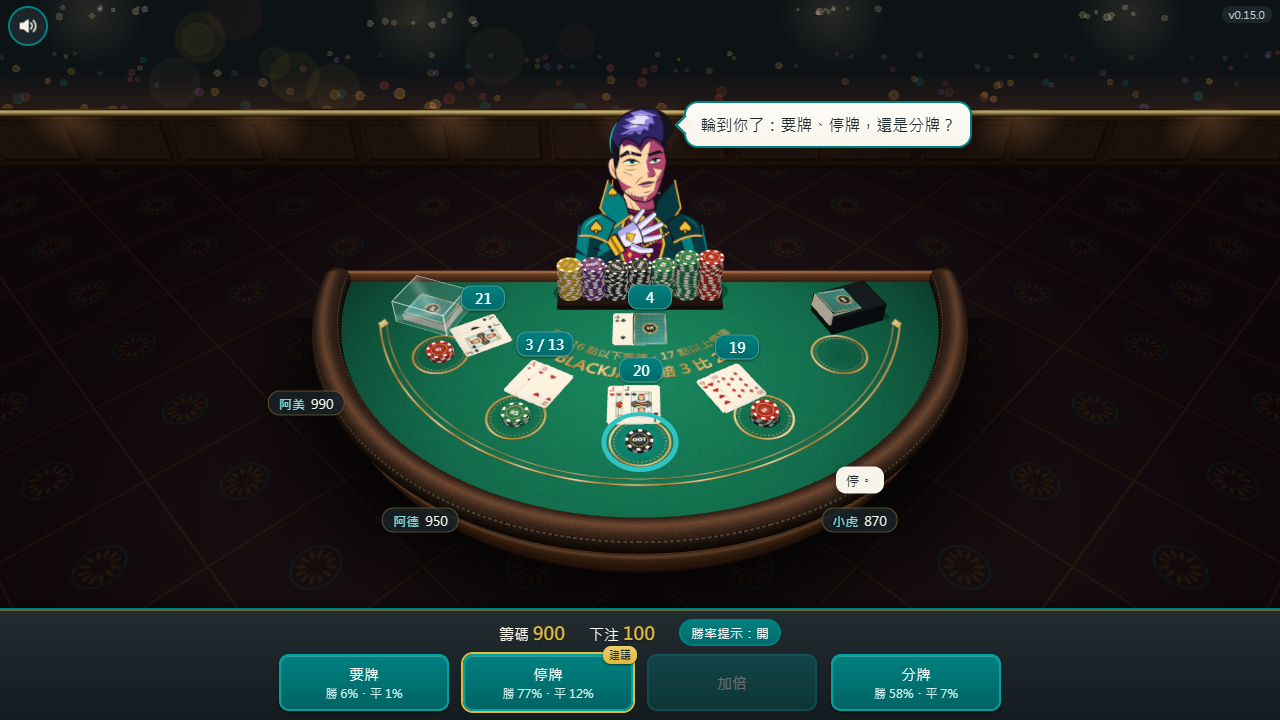
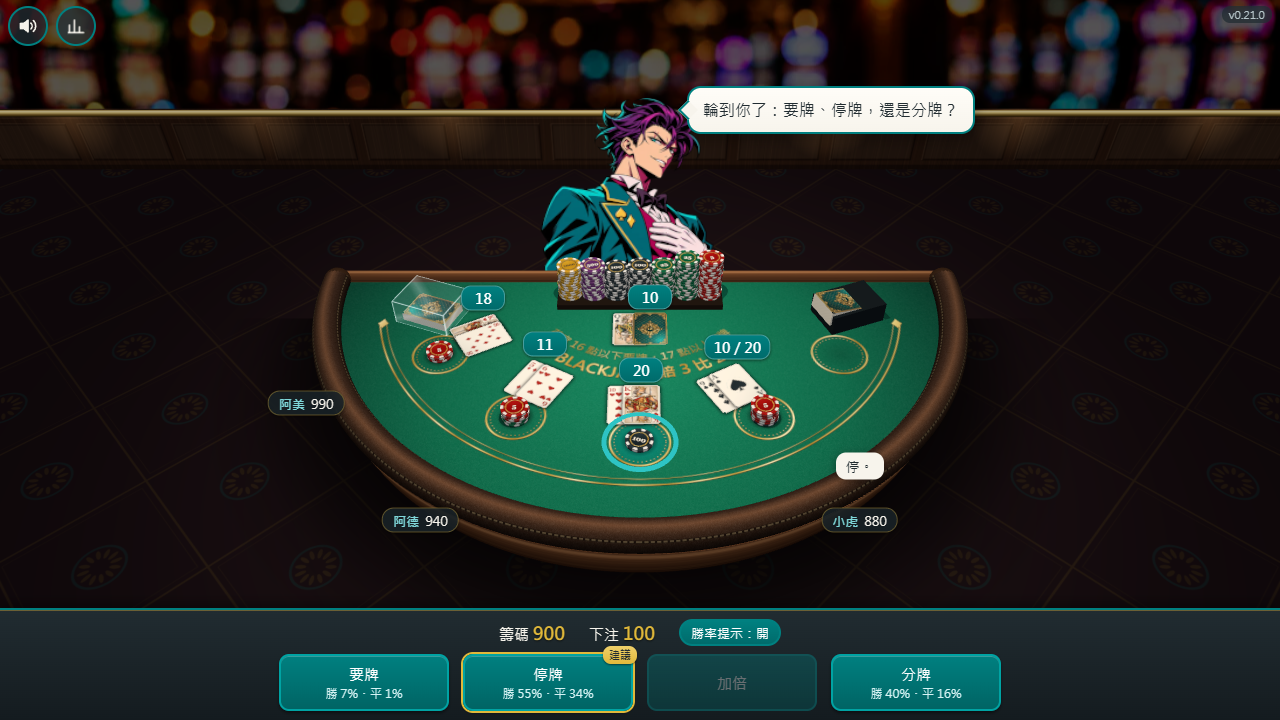
v0.21.0 橫式畫面的插畫荷官放大 1.2 倍、裁掉下半身
使用者 2026-11-16 追加：桌機上插畫荷官的臉太小（頭頂到下巴 66 像素）。
- dealer.js 重建立牌幾何：寬乘 zoom、高與頂端不動，貼圖只取上面 1/zoom；
  不用 mesh.scale，框景（牌桌加荷官的外框）與鏡頭位置不變。local() 跟著 zoom 換算
- zoom 依造型給（插畫 1.2、舊版 1：舊版頭在立牌偏下，放大後肩膀沉到籌碼架後面），換造型時重建；
  main.js 排版時只告訴荷官畫面是不是橫的，直式手機不變
- 桌機待機頭頂到下巴 66 → 80 像素
- check_dealer.js 加 1 條與 2 個陽性對照（沒放大、整個立牌放大讓鏡頭換位置）
- README 牌桌截圖換成這一版；路線圖與版本紀錄同步

diff --git a/tests/check_dealer.js b/tests/check_dealer.js
@@ -1,6 +1,6 @@
 // 守荷官：預設造型的點陣插畫每種表情立牌貼的是自己那張、臉框量在臉上（產出檔本身由 check_dealer_art.js 守）；
 // 對白泡泡在桌機與直式手機都要整個在畫面內、不蓋住荷官的臉、而且貼在臉旁邊，講到一半換表情也一樣；
-// 舊版造型五種表情都只有兩隻手（BJK-01）；點荷官換造型；大特寫跟著造型。
+// 舊版造型五種表情都只有兩隻手（BJK-01）；點荷官換造型；大特寫跟著造型；橫式畫面插畫荷官放大 1.2 倍而框景不變。
 // 驗不到：插畫好不好看、裁得好不好（看 node tools/shoot.js <前綴> --dealer 與 tools/_shots/art-<表情>-marks.png）。
 const test = require('node:test');
 const assert = require('node:assert');
@@ -234,6 +234,62 @@ function assertClassicArms(arms) {
     assert.strictEqual(a.right, mood === 'deal' ? 0 : 255, mood === 'deal' ? `發牌時右袖還垂著，多一隻手：${why}` : `${mood}：右袖不見了：${why}`);
   }
 }
+
+// ---- 橫式畫面放大插畫荷官（v0.21.0，使用者 2026-11-16 要 1.2 倍、裁掉下半身）----
+// 臉框在畫面上的高度，跟同一頁關掉放大（setLandscape(false)）時比；鏡頭位置跟「插畫不放大」的複本比，框景不准因此變
+const ZOOM = `(async () => {
+  const s = BJK.view.stage, d = s.dealer; await d.ready;
+  const h = () => { const f = d.faceRect(); return f.bottom - f.top; };
+  const zoomed = h();
+  d.setLandscape(false);
+  const plain = h();
+  return { ratio: +(zoomed / plain).toFixed(3), face: Math.round(zoomed), cam: s.camera.position.toArray() };
+})()`;
+const zoomOf = (appDir, vp) => withPage(availableBrowsers()[0], vp, async page => {
+  await page.goto(pathToFileURL(path.join(appDir, 'index.html')).href);
+  return page.evaluate(ZOOM);
+});
+const NO_ZOOM = [path.join('js', 'view', 'dealer.js'), 'zoom: 1.2,', 'zoom: 1,'];
+function assertZoom(desk, phone) {
+  const why = JSON.stringify({ desk, phone });
+  assert.ok(Math.abs(desk.ratio - 1.2) < 0.02, `桌機的荷官沒放大 1.2 倍：${why}`);
+  assert.strictEqual(phone.ratio, 1, `直式手機的荷官也被放大了：${why}`);
+}
+const sameCam = (a, b) => a.every((v, i) => Math.abs(v - b[i]) < 1e-6);
+
+test(`${availableBrowsers()[0]}：桌機的插畫荷官放大 1.2 倍、鏡頭框景跟不放大時一樣，直式手機不放大`, async t => {
+  const tmp = brokenCopy([NO_ZOOM]);
+  try {
+    const desk = (await zoomOf(APP, DESKTOP)).value, phone = (await zoomOf(APP, PHONE)).value, plain = (await zoomOf(tmp, DESKTOP)).value;
+    t.diagnostic(`桌機待機頭頂到下巴 ${desk.face} 像素（${desk.ratio} 倍）；直式手機 ${phone.ratio} 倍`);
+    assertZoom(desk, phone);
+    assert.ok(sameCam(desk.cam, plain.cam), `放大後鏡頭換了位置，整桌會變小：${JSON.stringify({ desk: desk.cam, plain: plain.cam })}`);
+  } finally {
+    fs.rmSync(tmp, { recursive: true, force: true });
+  }
+});
+
+test('陽性對照：排版時不告訴荷官畫面是橫的，要判成桌機沒放大', async () => {
+  const tmp = brokenCopy([[path.join('js', 'view', 'main.js'), 'dealer.setLandscape(aspect >= 1);', 'dealer.setLandscape(false);']]);
+  try {
+    const desk = (await zoomOf(tmp, DESKTOP)).value, phone = (await zoomOf(tmp, PHONE)).value;
+    assert.throws(() => assertZoom(desk, phone), /桌機的荷官沒放大/);
+  } finally {
+    fs.rmSync(tmp, { recursive: true, force: true });
+  }
+});
+
+test('陽性對照：改用整個立牌放大 1.2 倍，要判成鏡頭換了位置', async () => {
+  const plainDir = brokenCopy([NO_ZOOM]);
+  const tmp = brokenCopy([NO_ZOOM, [path.join('js', 'view', 'main.js'), 'dealer.mesh.scale.setScalar(aspect < 1 ? 2.2 : 1);', 'dealer.mesh.scale.setScalar(aspect < 1 ? 2.2 : 1.2);']]);
+  try {
+    const scaled = (await zoomOf(tmp, DESKTOP)).value, plain = (await zoomOf(plainDir, DESKTOP)).value;
+    assert.ok(!sameCam(scaled.cam, plain.cam), JSON.stringify({ scaled: scaled.cam, plain: plain.cam }));
+  } finally {
+    fs.rmSync(tmp, { recursive: true, force: true });
+    fs.rmSync(plainDir, { recursive: true, force: true });
+  }
+});
 
 test('舊版造型：五種表情都只有兩隻手', async () => {
   assertClassicArms(await measureArms(APP));

diff --git a/app/js/view/dealer.js b/app/js/view/dealer.js
@@ -27,6 +27,8 @@
           `<rect class="face" x="${x0}" y="${y0}" width="${+(x1 - x0).toFixed(1)}" height="${+(y1 - y0).toFixed(1)}" fill="none"/></svg>`;
       },
       line: '這身才夠氣勢。',
+      // 橫式畫面放大幾倍、裁掉下半身：到腰的半身像整張塞進立牌，桌機上臉太小（使用者 2026-11-16 要 1.2 倍）
+      zoom: 1.2,
     },
     // 舊版：SVG 畫的，臉框是橢圓，往上多留 20 給頭髮
     classic: {
@@ -34,6 +36,8 @@
       head: () => { const { cx, cy, rx, ry } = CLASSIC.head; return [cx - rx, cy - ry - 20, cx + rx, cy + ry]; },
       portrait: mood => classicSvg(mood, `width="100%" height="100%" viewBox="${CLASSIC.crop}"`),
       line: CLASSIC.line,
+      // 舊版的頭在立牌偏下，頭頂對齊放大的話整個人往下沉，肩膀躲到籌碼架後面只剩一顆頭
+      zoom: 1,
     },
   };
   const LOOK_NAMES = Object.keys(LOOKS);
@@ -58,18 +62,27 @@
   }
   const loadLook = name => Promise.all(Object.keys(MOODS).map(m => loadTexture(m, name).then(t => [m, t]))).then(Object.fromEntries);
 
-  // 立牌座標 → 立牌本地座標（原點在立牌底邊中央）
-  function local(sx, sy) {
-    return new THREE.Vector3((sx / VB_W - 0.5) * W, (1 - sy / VB_H) * H, 0);
+  // 立牌座標 → 立牌本地座標（原點在立牌底邊中央）。zoom 見 standee()
+  function local(sx, sy, zoom = 1) {
+    return new THREE.Vector3((sx / VB_W - 0.5) * W * zoom, (1 - sy / VB_H * zoom) * H, 0);
+  }
+
+  // 立牌的幾何。zoom > 1：人放大 zoom 倍、頭頂對齊，下半身從底邊裁掉（貼圖只取上面 1／zoom）；
+  // 立牌只變寬、高與頂端不動，桌機照「牌桌加荷官」框景時鏡頭不會因此拉遠
+  function standee(zoom) {
+    const g = new THREE.PlaneGeometry(W * zoom, H);
+    g.translate(0, H / 2, 0);
+    const uv = g.attributes.uv;
+    for (let i = 0; i < uv.count; i++) uv.setY(i, 1 - (1 - uv.getY(i)) / zoom);
+    return g;
   }
 
   // project(世界座標) → 螢幕 CSS 像素 {x, y}；onChange() 讓場景重畫
   function create({ bubble, project, onChange }) {
-    const geometry = new THREE.PlaneGeometry(W, H);
-    geometry.translate(0, H / 2, 0);
+    let zoom = 1, landscape = false;
     // 不寫深度：前面的牌與籌碼已經先畫好，擋得住；跟桌上其他透明物共用一支著色器
     const material = new THREE.MeshBasicMaterial({ transparent: true, depthWrite: false, visible: false });
-    const mesh = new THREE.Mesh(geometry, material);
+    const mesh = new THREE.Mesh(standee(zoom), material);
     mesh.renderOrder = 1;
     let textures = {};
     let masks = {};
@@ -99,6 +112,7 @@
         textures = set;
         masks = {};
         look = name;
+        applyZoom();
         material.map = textures[mood];
         V.hud.savePref('look', name);
         aside(LOOKS[name].line);
@@ -142,7 +156,23 @@
 
     function toScreen(sx, sy) {
       mesh.updateMatrixWorld();
-      return project(mesh.localToWorld(local(sx, sy)));
+      return project(mesh.localToWorld(local(sx, sy, zoom)));
+    }
+
+    // 橫式畫面照造型的 zoom 放大裁掉下半身；直式手機整張（那裡靠 mesh.scale 撐滿上方）。換造型時跟著重建。
+    // 點透明處的判斷讀的是貼圖 UV，不必跟著改
+    function applyZoom() {
+      const z = landscape ? LOOKS[look].zoom : 1;
+      if (z === zoom) return;
+      zoom = z;
+      const old = mesh.geometry;
+      mesh.geometry = standee(z);
+      old.dispose();
+    }
+    // main.js 每次排版時給：畫面是不是橫的
+    function setLandscape(on) {
+      landscape = on;
+      applyZoom();
     }
 
     function faceRect() {
@@ -207,7 +237,8 @@
     }
 
     return {
-      mesh, ready, setMood, say, hush, placeBubble, faceRect, nextLook, opaque,
+      mesh, ready, setMood, say, hush, placeBubble, faceRect, nextLook, opaque, setLandscape,
+      get zoom() { return zoom; },
       get look() { return look; },
       get mood() { return mood; },
       get loaded() { return Object.keys(textures).length; },

diff --git a/app/js/view/main.js b/app/js/view/main.js
@@ -90,8 +90,10 @@
       const elev = (aspect < 1 ? 64 : 40) * Math.PI / 180;
       const dir = new THREE.Vector3(0, Math.sin(elev), Math.cos(elev));
       V.dealer.face(dealer.mesh, elev);
-      // 直式螢幕是寬度先頂到：牌桌大小已經定了，上方多出來的高度讓荷官放大來撐
+      // 直式螢幕是寬度先頂到：牌桌大小已經定了，上方多出來的高度讓荷官放大來撐。
+      // 橫式時插畫荷官照造型放大、裁掉下半身（dealer.js 的 LOOKS[].zoom），立牌只變寬、頂端不動，框景不受影響
       dealer.mesh.scale.setScalar(aspect < 1 ? 2.2 : 1);
+      dealer.setLandscape(aspect >= 1);
       // 直式螢幕俯角大，立牌底邊會從桌子後面露出來，往前貼近桌邊才藏得住
       dealer.mesh.position.z = aspect < 1 ? -0.4 : -0.6;
       scene.updateMatrixWorld();

diff --git a/README.md b/README.md
@@ -84,4 +84,4 @@
 
 ## 狀態
 
-v0.21.0（2026-11-16）：J、Q、K 的人物、牌背、籌碼和荷官背後的大廳換成新的插畫，牌角的點數與花色、籌碼上的面額照舊清楚；桌上的籌碼面額都朝著你。v0.20.0（2026-11-16）：荷官換成新的插畫，待機、發牌、驚訝、得意、遺憾五種表情各是一張圖，Blackjack 特效裡的大頭也是它；JOJO 風那款拿掉了，原本選它的會自動換成新荷官，點荷官仍可換成舊版插畫。v0.19.0（2026-11-07）：撲克牌與籌碼更有立體感：底下有柔和的影子，疊起來的牌看得出上下層，牌緣與籌碼邊緣有亮面與暗面。v0.18.1（2026-11-07）：牌局打到一半如果出錯，畫面會說「這一局出錯了」並請你重新整理，不再停在那裡不動；重新整理後這一局不算，籌碼回到開局前。v0.18.0（2026-11-07）：左上角多了戰績，記下打了幾局、輸贏、Blackjack 次數、最長連勝、籌碼最高點，以及你照基本策略打的比例，下次打開還在。v0.17.0（2026-11-07）：JOJO 風荷官多了光影：衣服、手套、肩甲看起來有厚度，凹處有陰影、邊緣有反光，金飾會發亮；換造型、表情都跟以前一樣。v0.16.0（2026-10-31）：點荷官可以換造型，會在 JOJO 風與舊版插畫之間切換，下次打開還記得。v0.15.0（2026-10-31）：荷官重畫成 JOJO 動畫風，亮暗對比更強，裝扮、表情、手勢全部換新，頭髮維持油頭。v0.14.2（2026-10-31）：手機雙指放大看牌時，放完手會重畫得更清楚，縮回去就恢復；牌的邊緣也不再有鋸齒。v0.14.1（2026-10-31）：要牌、停牌、加倍、分牌的按鈕加寬、一樣寬，間距拉開，手機上比較好按。v0.14.0（2026-10-31）：畫面全面精修：J、Q、K 有了人物、牌角的點數放大、牌背與籌碼重畫、絨布燙金、皮革桌緣、荷官多了細節、按鈕有質感；點數標籤移到牌的上方，不再蓋住牌角。手機也更省電：畫面沒動時不重畫，有動時一格的工作量少了一半以上；開頁比上一版多等約 0.2 秒（在電腦上量的）。v0.13.1（2026-10-28）：籌碼鈕超過剩下的籌碼時按下去就押上全部，不再反灰按不下去。v0.13.0（2026-10-28）：下注列多了 +1000、+2000，按鈕之間拉開間距，手機上分成兩排；加上發牌、翻牌、洗牌、收牌與籌碼的音效，左上角可以關掉。v0.12.3（2026-10-28）：關掉勝率提示時，動作按鈕不再縮小，按鈕上的字放大塞滿。v0.12.2（2026-10-28）：修好第二局起牌局中的「下注」多算上一局的注（押 200 顯示 300）；籌碼本來就扣對，玩法不變。v0.12.1（2026-10-28）：玩法跟 v0.12.0 一樣，開頁後第一次拿到 Blackjack、第一次按加倍時，特效不再頓一下；特效播放時也不再一直重畫底下的牌桌，比較省電。v0.12.0（2026-10-23）：拿到 Blackjack、荷官翻出 Blackjack、你按「加倍」時，多了一段蓋滿畫面的特效：荷官的大特寫、噴出來的籌碼、你的手把籌碼彈上桌。規則照同事試玩後定案的那組（下注不設上限、只有 A 分開後只補一張、分出來的 A 加 10 點牌算 Blackjack、荷官不偷看底牌，大家打完才開）。自動檢查 258 項全部通過（Windows 11 的 Edge；這一版跑的電腦沒裝 Chrome，Chrome 的那幾項上一次是 v0.16.0 跑過），包含自動對打（含分牌與再分、荷官最後翻出 Blackjack、分出來的 Blackjack）、三段特效（真的打一局確認會播、播完收乾淨、大字不壓到荷官的臉）、規則、勝率、版面（一個座位分成 8 手）、背景、存檔與載不起來時的訊息、牌與籌碼的影子（旁邊的絨布變暗、牌面不被影子蓋到）、手機省電（沒動不重畫、每格工作量不超標），以及音效（聽得到、不爆音、點過畫面才出聲、開關記得住）。勝率提示與實際抽牌模擬比對，一般的動作差距在 0.4% 以內、分牌的每一手在 0.5% 以內；「建議」與阿德用的基本策略表 540 格對照全部相同，分完又成對的 100 格也相同。上一次在網址上用桌機與手機尺寸各打兩局是 v0.19.0（2026-11-07，Edge），沒有錯誤。
+v0.21.0（2026-11-16）：J、Q、K 的人物、牌背、籌碼和荷官背後的大廳換成新的插畫，牌角的點數與花色、籌碼上的面額照舊清楚；桌上的籌碼面額都朝著你；電腦與橫拿的手機上，新的荷官放大到原本的 1.2 倍，臉看得更清楚。v0.20.0（2026-11-16）：荷官換成新的插畫，待機、發牌、驚訝、得意、遺憾五種表情各是一張圖，Blackjack 特效裡的大頭也是它；JOJO 風那款拿掉了，原本選它的會自動換成新荷官，點荷官仍可換成舊版插畫。v0.19.0（2026-11-07）：撲克牌與籌碼更有立體感：底下有柔和的影子，疊起來的牌看得出上下層，牌緣與籌碼邊緣有亮面與暗面。v0.18.1（2026-11-07）：牌局打到一半如果出錯，畫面會說「這一局出錯了」並請你重新整理，不再停在那裡不動；重新整理後這一局不算，籌碼回到開局前。v0.18.0（2026-11-07）：左上角多了戰績，記下打了幾局、輸贏、Blackjack 次數、最長連勝、籌碼最高點，以及你照基本策略打的比例，下次打開還在。v0.17.0（2026-11-07）：JOJO 風荷官多了光影：衣服、手套、肩甲看起來有厚度，凹處有陰影、邊緣有反光，金飾會發亮；換造型、表情都跟以前一樣。v0.16.0（2026-10-31）：點荷官可以換造型，會在 JOJO 風與舊版插畫之間切換，下次打開還記得。v0.15.0（2026-10-31）：荷官重畫成 JOJO 動畫風，亮暗對比更強，裝扮、表情、手勢全部換新，頭髮維持油頭。v0.14.2（2026-10-31）：手機雙指放大看牌時，放完手會重畫得更清楚，縮回去就恢復；牌的邊緣也不再有鋸齒。v0.14.1（2026-10-31）：要牌、停牌、加倍、分牌的按鈕加寬、一樣寬，間距拉開，手機上比較好按。v0.14.0（2026-10-31）：畫面全面精修：J、Q、K 有了人物、牌角的點數放大、牌背與籌碼重畫、絨布燙金、皮革桌緣、荷官多了細節、按鈕有質感；點數標籤移到牌的上方，不再蓋住牌角。手機也更省電：畫面沒動時不重畫，有動時一格的工作量少了一半以上；開頁比上一版多等約 0.2 秒（在電腦上量的）。v0.13.1（2026-10-28）：籌碼鈕超過剩下的籌碼時按下去就押上全部，不再反灰按不下去。v0.13.0（2026-10-28）：下注列多了 +1000、+2000，按鈕之間拉開間距，手機上分成兩排；加上發牌、翻牌、洗牌、收牌與籌碼的音效，左上角可以關掉。v0.12.3（2026-10-28）：關掉勝率提示時，動作按鈕不再縮小，按鈕上的字放大塞滿。v0.12.2（2026-10-28）：修好第二局起牌局中的「下注」多算上一局的注（押 200 顯示 300）；籌碼本來就扣對，玩法不變。v0.12.1（2026-10-28）：玩法跟 v0.12.0 一樣，開頁後第一次拿到 Blackjack、第一次按加倍時，特效不再頓一下；特效播放時也不再一直重畫底下的牌桌，比較省電。v0.12.0（2026-10-23）：拿到 Blackjack、荷官翻出 Blackjack、你按「加倍」時，多了一段蓋滿畫面的特效：荷官的大特寫、噴出來的籌碼、你的手把籌碼彈上桌。規則照同事試玩後定案的那組（下注不設上限、只有 A 分開後只補一張、分出來的 A 加 10 點牌算 Blackjack、荷官不偷看底牌，大家打完才開）。自動檢查 258 項全部通過（Windows 11 的 Edge；這一版跑的電腦沒裝 Chrome，Chrome 的那幾項上一次是 v0.16.0 跑過），包含自動對打（含分牌與再分、荷官最後翻出 Blackjack、分出來的 Blackjack）、三段特效（真的打一局確認會播、播完收乾淨、大字不壓到荷官的臉）、規則、勝率、版面（一個座位分成 8 手）、背景、存檔與載不起來時的訊息、牌與籌碼的影子（旁邊的絨布變暗、牌面不被影子蓋到）、手機省電（沒動不重畫、每格工作量不超標），以及音效（聽得到、不爆音、點過畫面才出聲、開關記得住）。勝率提示與實際抽牌模擬比對，一般的動作差距在 0.4% 以內、分牌的每一手在 0.5% 以內；「建議」與阿德用的基本策略表 540 格對照全部相同，分完又成對的 100 格也相同。上一次在網址上用桌機與手機尺寸各打兩局是 v0.19.0（2026-11-07，Edge），沒有錯誤。

diff --git a/docs/版本紀錄.md b/docs/版本紀錄.md
@@ -19,8 +19,13 @@
 8. 踩到的坑：補畫後原地重傳的 sRGB 貼圖，縮小看用的那幾層 mipmap 還是純色版（這台 Edge 量到原尺寸對、縮成 4×4 時紅籌碼的綠色道 37.7 → 12），遠一點的籌碼與牌背會髒。重傳前先 `dispose()` 掉 GPU 上那一份就對了，寫成了陽性對照。
 9. 數字（手機 390×844，`measure_frame.js` 跟 v0.20.0 交替各 4 次的中位數）：draw call 下注 37 不變、滿桌 128 對 132（每局 AI 拿的牌不同）；一格 4.8 對 4.6、滿桌 6.2 對 6.5 毫秒；開頁到荷官就緒 1990 對 1869 毫秒，多約 0.12 秒，在這台開頁時間的跳動範圍內。記憶體：插畫解碼後 5.3 MB，舊的大廳畫布 1024×512（2.1 MB）拿掉；GPU 上的貼圖張數與大小不變（大廳 1280×352 取代 1024×512）。
 10. 測試：新增 `check_table_art.js`（4 條，CI 也跑：產出檔同步、張數與大小；陽性對照：換一張原圖、改品質 → 過期，拿原圖量 → 每張都不合）與 `check_textures.js`（1 條與 6 個陽性對照：開頁那一格牌背、籌碼、大廳是插畫，GPU 上讀回來的跟 canvas 差不到 0.3，人物牌畫的是插畫，籌碼側面條紋跟頂面錯開不到 1 度，桌上籌碼最大轉角量到 22.4 度（上限 22.5）；不補畫、不標記重傳、原地重傳、不重畫那一格、條紋轉半格、籌碼轉一整圈都判紅）。探針讓每張圖的 `decode()` 晚 400 毫秒才回，否則解碼得快時補畫那條路根本沒走到。`check_room.js` 多兩條判準（不拉變形、裁的範圍在圖裡面），光點與底色的兩個對照換成「圖沒貼上」「沒壓暗」，另加「寬度整張塞進畫面」「倍率取小的」兩個對照。`tools\shoot.js` 多一個 `--cards`。
-11. ⚠ 只在這台的 Edge 看過；WebP 要 iOS 14 以上。人物鏡像、牌背拉 7%、大廳壓暗的程度都是我挑的，要使用者看過。只改了 view、測試與 `version.js` 的版號，沒跑 `mutants`。
-12. 版本紀錄超過 12 個版本，v0.13.0 原樣搬到 `docs\版本紀錄_歷史.md`。
+11. 荷官放大（同一版第二個 commit，使用者 2026-11-16 追加）：橫式畫面（桌機、橫拿的手機）插畫荷官放大 1.2 倍、裁掉下半身，直式手機不變。
+    1. 不用 `mesh.scale`：橫式的框景是「牌桌加荷官」的外框，荷官變高會讓鏡頭拉遠、整桌變小。改成重建立牌幾何，寬乘 1.2、高與頂端不動，貼圖只取上面 1／1.2。泡泡避臉用的座標換算（`local()`）跟著 zoom；點透明處讀的是貼圖 UV，不必改。
+    2. 桌機待機頭頂到下巴 66 → 80 像素（發牌 84 → 101、驚訝 86 → 103、遺憾 97 → 116），三種畫面比例的鏡頭位置都不變。
+    3. 舊版造型不放大：它的頭在立牌偏下，頭頂對齊放大後肩膀沉到籌碼架後面、只剩一顆頭（截圖比過）。所以 zoom 依造型給（`LOOKS[].zoom`），換造型時重建。
+    4. `check_dealer.js` 加 1 條與 2 個陽性對照：桌機臉框是不放大時的 1.2 倍、直式手機 1 倍、鏡頭跟插畫不放大的複本一樣；排版時不告訴荷官畫面是橫的 → 判沒放大，改用整個立牌放大 → 判鏡頭換了位置。README 的牌桌截圖換成這一版。
+12. ⚠ 只在這台的 Edge 看過；WebP 要 iOS 14 以上。人物鏡像、牌背拉 7%、大廳壓暗的程度都是我挑的，要使用者看過。只改了 view、測試與 `version.js` 的版號，沒跑 `mutants`。
+13. 版本紀錄超過 12 個版本，v0.13.0 原樣搬到 `docs\版本紀錄_歷史.md`。
 
 ## v0.20.0（2026-11-16）荷官換成點陣插畫，取代 JOJO 向量版
 

diff --git a/目標路線圖.md b/目標路線圖.md
@@ -33,7 +33,7 @@
 
 📌 v0.16.0 點荷官換造型只用模擬的滑鼠事件驗過，真手機手指點一下會不會換、雙指放大會不會誤觸要實測。v0.20.0 換成點陣插畫後，荷官五張貼圖解壓後約 13 MB（v0.15～v0.19 的 JOJO 版約 23 MB，都是寬×高×4 推算），真手機的記憶體壓力沒量。
 
-📌 v0.20.0 的荷官插畫是 WebP，只在這台的 Edge 看過；iPhone 要 iOS 14 以上才讀得到，真手機試玩時看荷官有沒有出現。插畫是到腰的半身像，整張塞進立牌，桌機 1280×720 上臉比 JOJO 版小（待機時頭頂到下巴約 66 像素，JOJO 版約 94）；要不要把圖放大、裁掉被牌桌擋住的下半身，等使用者看過再決定。
+📌 v0.20.0 的荷官插畫是 WebP，只在這台的 Edge 看過；iPhone 要 iOS 14 以上才讀得到，真手機試玩時看荷官有沒有出現。插畫是到腰的半身像，整張塞進立牌，桌機 1280×720 上臉比 JOJO 版小（待機時頭頂到下巴約 66 像素，JOJO 版約 94）；使用者 2026-11-16 定橫式畫面放大 1.2 倍、裁掉下半身（v0.21.0，待機約 80 像素），直式手機不變。
 
 📌 v0.21.0 的牌面人物、牌背、籌碼、大廳插畫也是 WebP，同樣只在這台的 Edge 看過。解不開 WebP 的瀏覽器會一直顯示純色版（J、Q、K 只剩大花色、牌背只剩 21、籌碼只剩底色與面額），牌照樣能玩；真手機試玩時看有沒有出現插畫。插畫解碼後多佔約 5.3 MB（寬×高×4 推算），真手機沒量。
 
